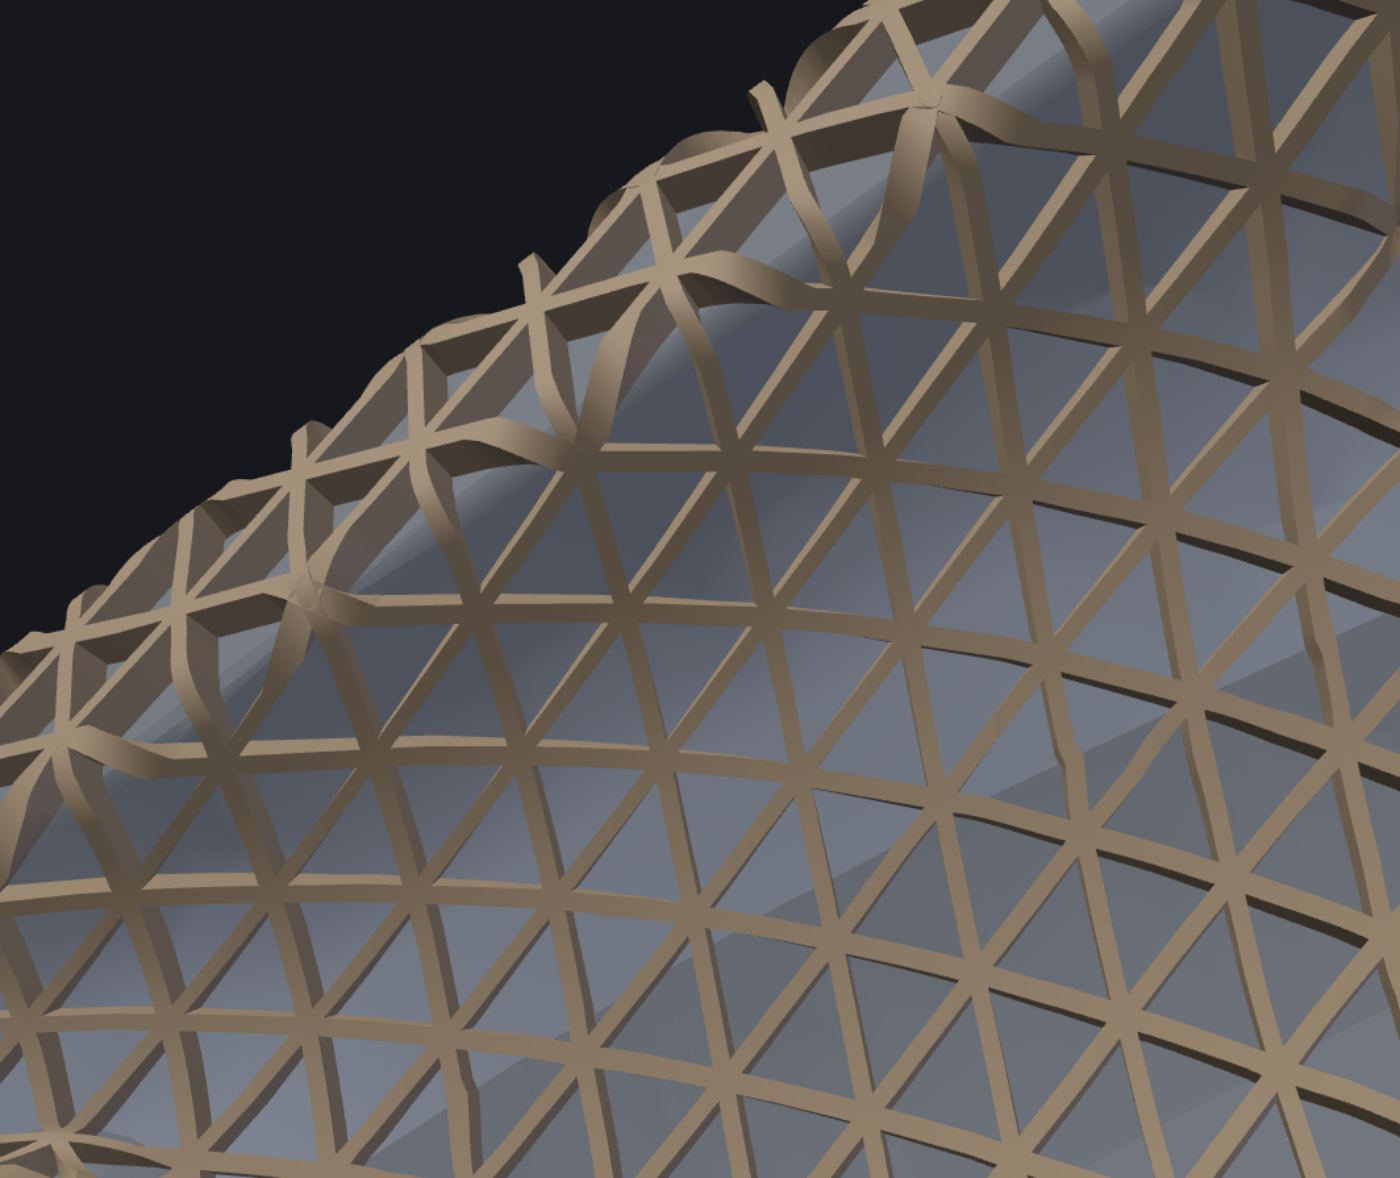
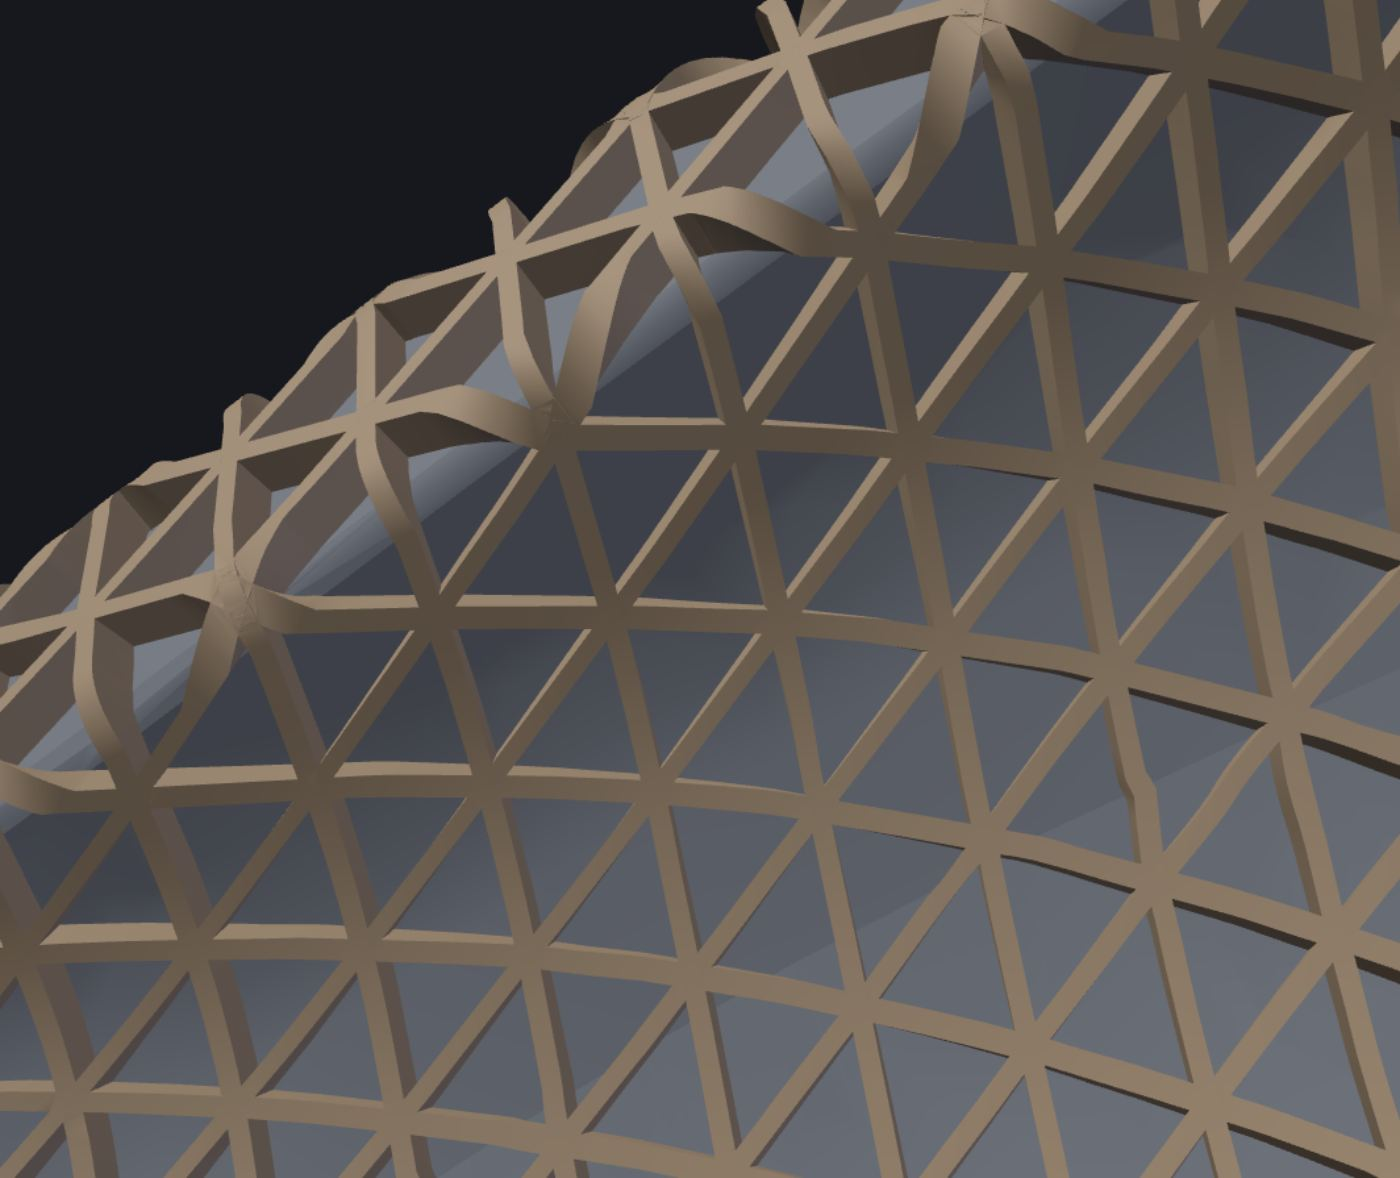
feat: display overlay unions the rib lattice
Separate overlay solids interpenetrate visibly at junctions; the
viewer now shows the manifold union (simplify 0.03) with per-solid
concatenation as fallback — what you see is what exports produce.

diff --git a/server/main.py b/server/main.py
@@ -65,9 +65,40 @@ def _entry():
 
 
 def _overlay_mesh(overlay, lin_defl=0.35):
-    """Merge overlay rib solids into one display mesh (positions, indices)."""
-    vs, ts, off = [], [], 0
+    """Rib overlay as one display mesh — unioned, so junctions read welded.
+
+    Un-unioned solids interpenetrate visibly where ribs cross; the union is
+    also what exports produce, so the viewer shows the true result.
+    """
+    if not overlay:
+        return None
+    import manifold3d as m3d
+    from .geometry.booleans import BooleanError, _to_manifold
+    mans, leftovers = [], []
     for s in overlay:
+        try:
+            mans.append(_to_manifold(s, lin_defl))
+        except BooleanError:
+            leftovers.append(s)
+    vs, ts, off = [], [], 0
+    if mans:
+        try:
+            man = m3d.Manifold.batch_boolean(mans, m3d.OpType.Add)
+            try:
+                man = man.simplify(0.03)
+            except Exception:
+                pass
+            mesh = man.to_mesh()
+            v = np.asarray(mesh.vert_properties, np.float64)[:, :3]
+            t = np.asarray(mesh.tri_verts, np.int64)
+            if len(v):
+                vs.append(v)
+                ts.append(t)
+                off = len(v)
+        except Exception:
+            leftovers = list(overlay)
+            vs, ts, off = [], [], 0
+    for s in leftovers:
         v, t = _shape_to_mesh(s, lin_defl)
         if len(v) == 0:
             continue
